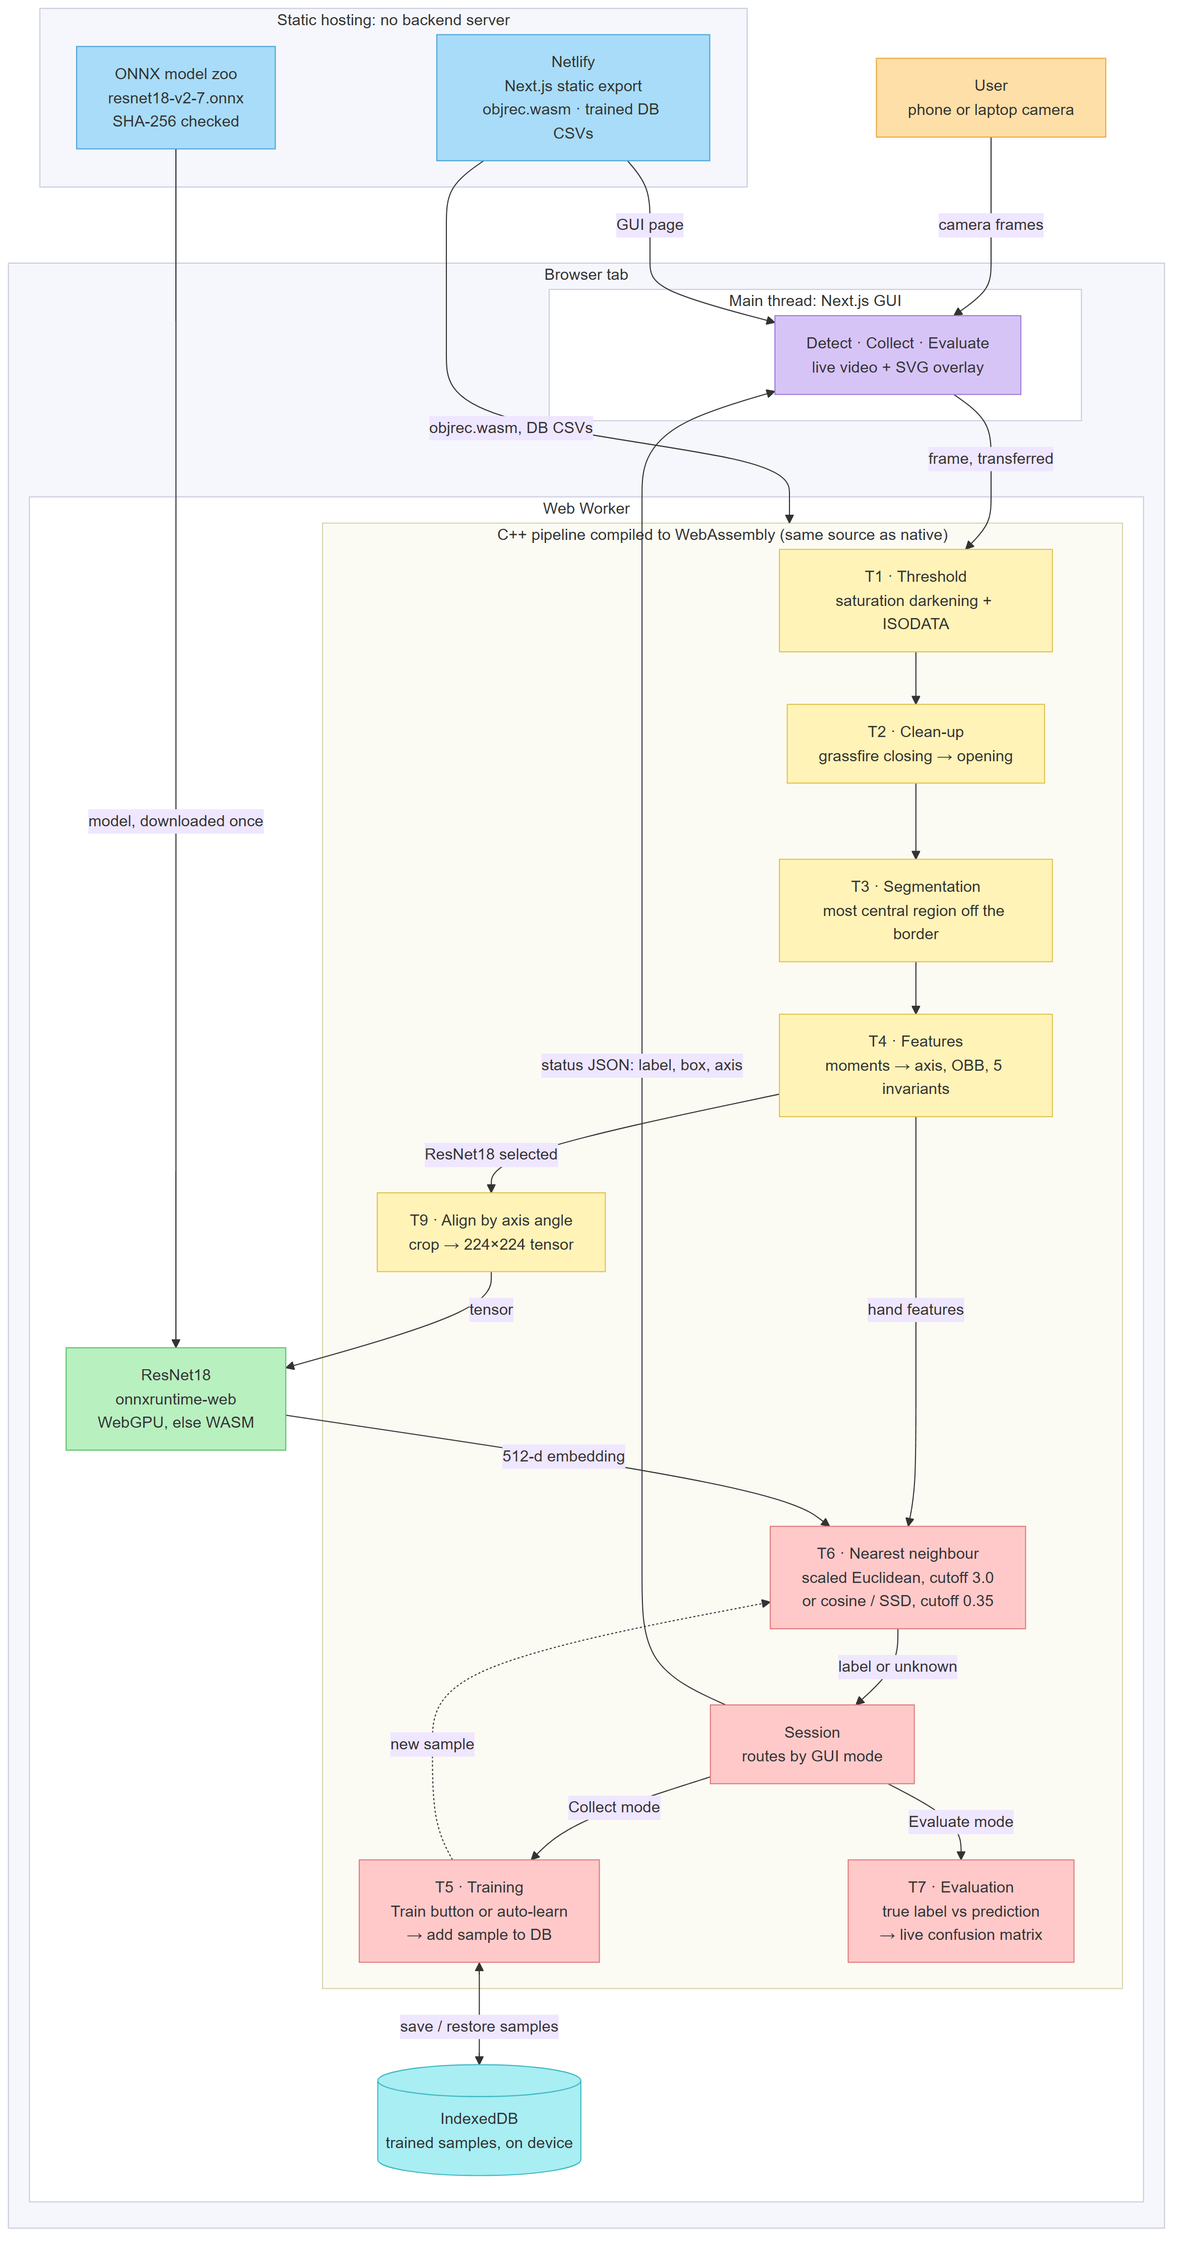
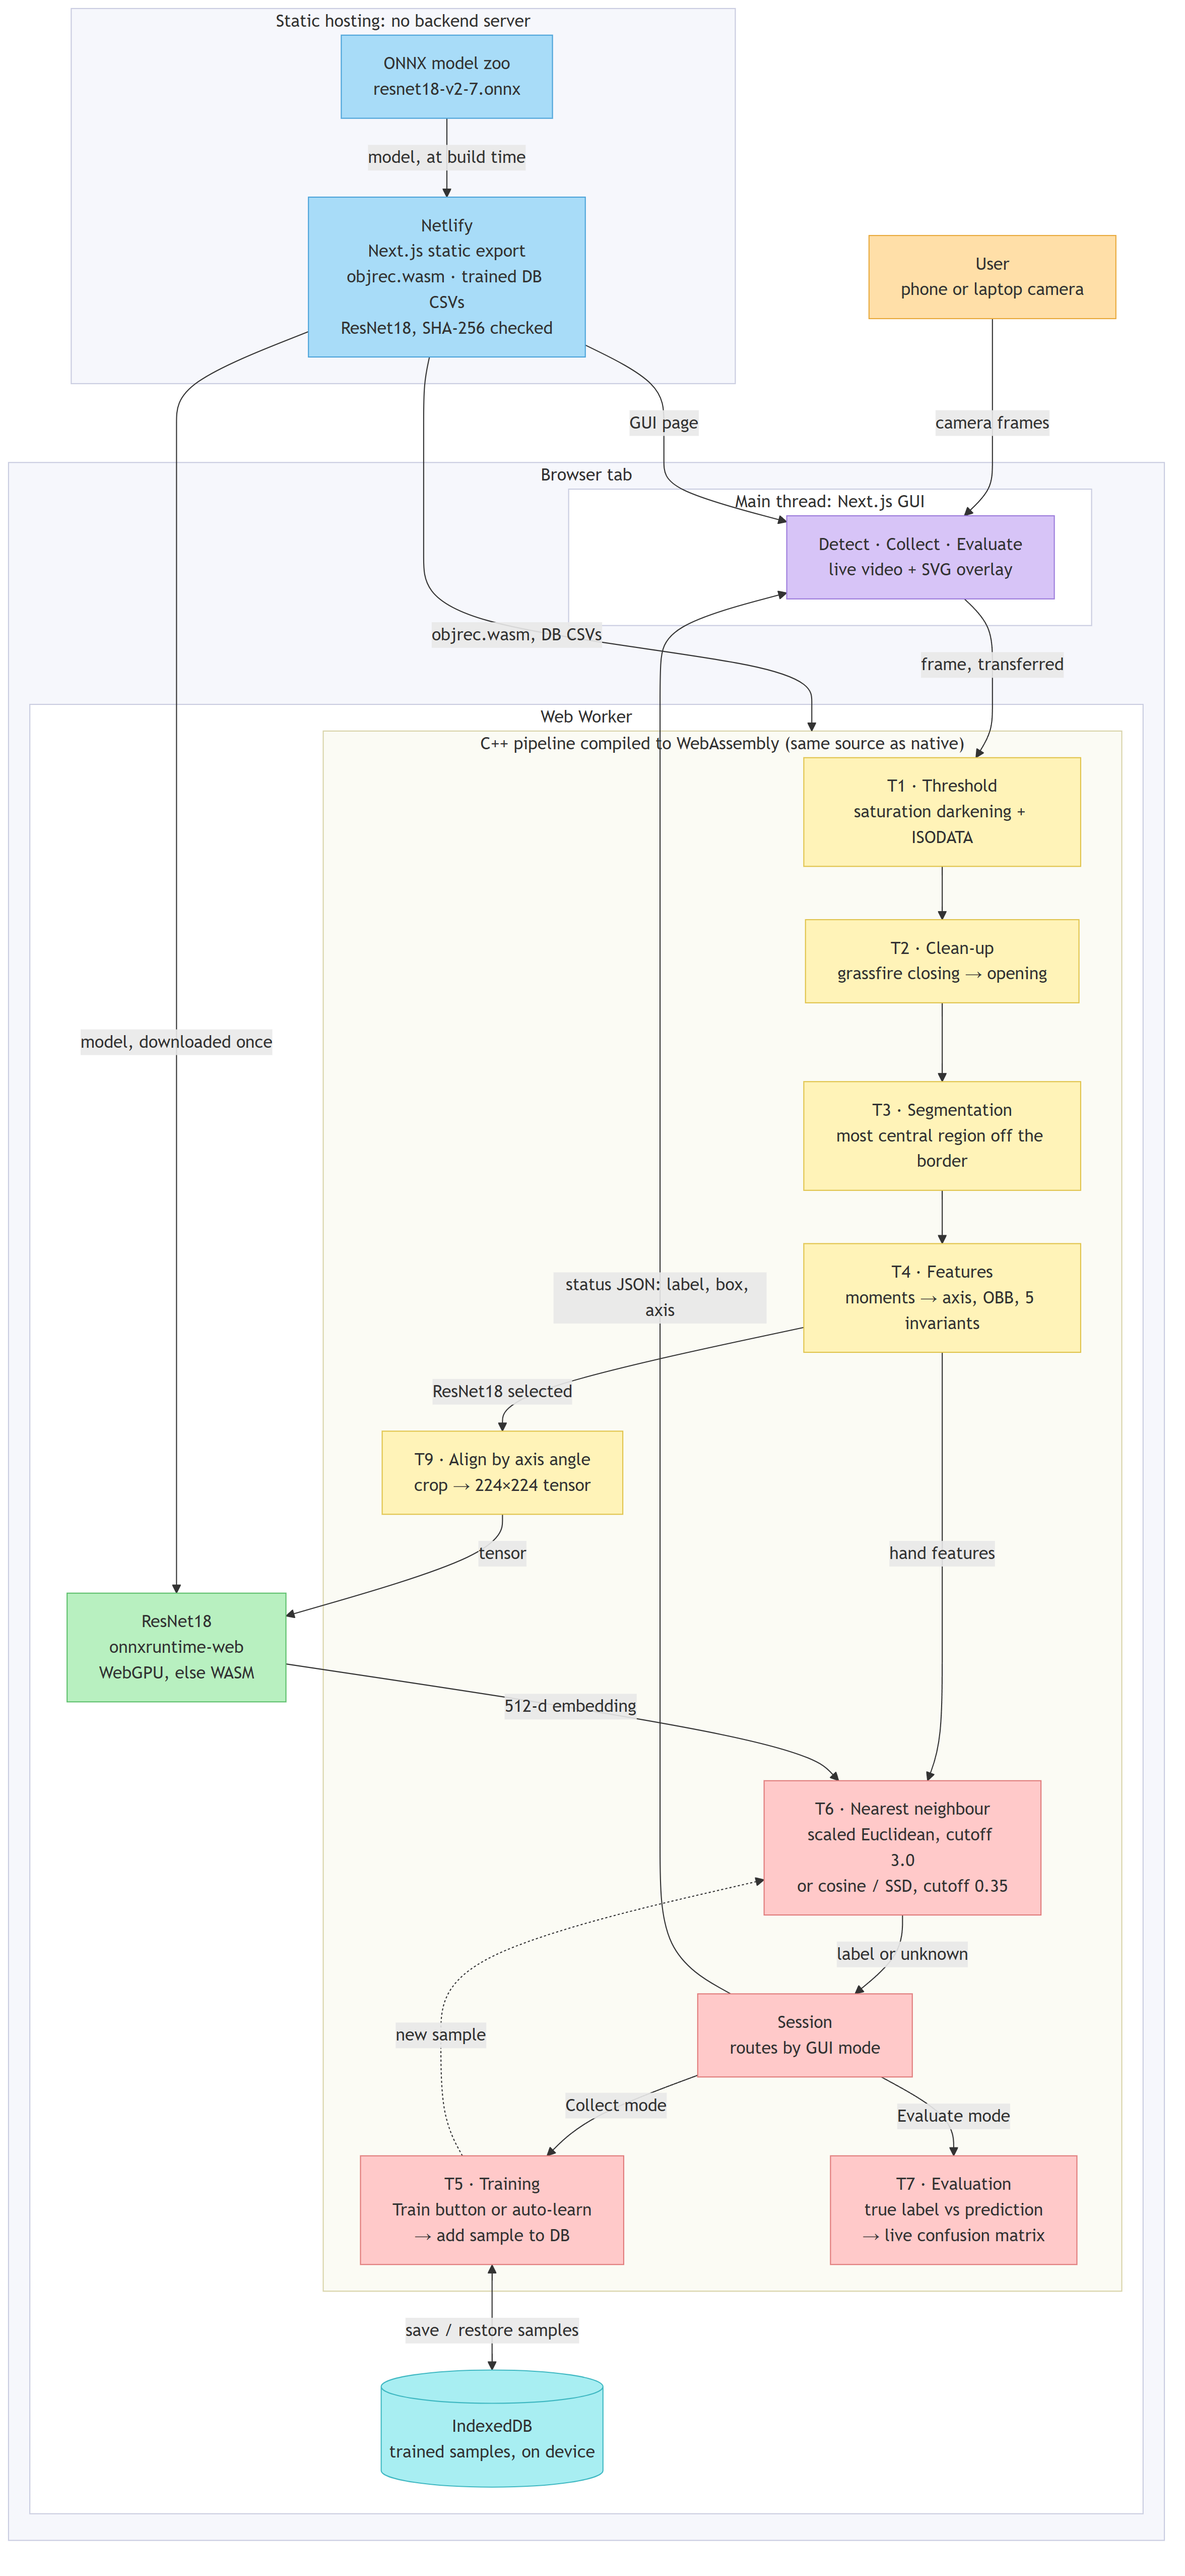
fix(web): :bug: serve ResNet18 from the site so blocked networks still get embeddings
Some networks block media.githubusercontent.com (TLS handshake fails), so the
browser's runtime fetch of the zoo model failed with "ResNet18 unavailable:
Failed to fetch". The build now places the pinned model in public/models/,
reusing data/models/ or downloading it server-side, and the worker loads it
from the site's own origin; the SHA-256 check still runs in the browser.
Weights stay out of git (D-18). Decision: D-30.

diff --git a/web/src/lib/onnx-patch.ts b/web/src/lib/onnx-patch.ts
@@ -1,13 +1,12 @@
 // D-27: onnxruntime can only return a model's declared outputs, but the T9 embedding is the
 // internal tensor after global average pooling (server.exe reads it by layer name through
-// OpenCV dnn). Rather than re-hosting a modified 47 MB model, the browser downloads the
-// original from the ONNX zoo, checks its SHA-256 (D-18, D-19), and declares that tensor as an
+// OpenCV dnn). Rather than shipping a modified 47 MB model, the browser downloads the
+// original zoo file, checks its SHA-256 (D-18, D-19), and declares that tensor as an
 // extra graph output by splicing one protobuf field into the bytes. Weights are untouched.
 
-// The zoo's LFS host directly: the github.com/.../raw/ URL in data/models/README.md redirects
-// here, and that redirect carries no CORS header, so browsers refuse to follow it.
-export const MODEL_URL =
-  "https://media.githubusercontent.com/media/onnx/models/main/validated/vision/classification/resnet/model/resnet18-v2-7.onnx";
+// D-30: served by the site itself (scripts/wasm.mjs puts it in public/models/ at build time).
+// Fetching the zoo's LFS host from the browser failed on networks that block that host.
+export const MODEL_URL = "/models/resnet18-v2-7.onnx";
[1 lines of base64/hex data omitted]
 export const EMBEDDING_OUTPUT = "resnetv22_flatten0_reshape0";
 

diff --git a/web/src/components/settings-card.tsx b/web/src/components/settings-card.tsx
@@ -101,7 +101,7 @@ export function SettingsCard({ status }: { status: Status | null }) {
         />
         {USE_WASM && model.state === "loading" && (
           <p className="setting-note">
-            Downloading ResNet18 from the ONNX model zoo (47 MB, once; your browser caches it):{" "}
+            Downloading ResNet18 (47 MB, once; your browser caches it):{" "}
             {Math.round(model.progress * 100)}%. Hand features work meanwhile.
           </p>
         )}

diff --git a/docs/mentorship/decisions.md b/docs/mentorship/decisions.md
@@ -392,3 +392,13 @@ Phone layout fine; back camera; trained "phone" with 3 samples in the browser; l
 
 New objects whose silhouette resembles a trained one (round tin vs batteries, snack bag vs notebook at distance 0.301 / cutoff 0.350) flicker between a known label and unknown. Cause: one "known" frame resets the 3 s hold ([auto_learn.cpp](../../src/app/auto_learn.cpp) `update`), so a borderline object never stays unknown for 3 s straight. Workaround used in the demo: cutoff lowered to 0.200 (costs false unknowns on trained objects under lighting changes).
 **Further improvement (yours, not built):** decide on the fraction of frames in the hold window that read unknown (e.g. ≥ 80%) instead of requiring every frame; one noisy frame then no longer erases the hold. Related: hysteresis (separate enter/leave cutoffs) or smoothing the distance over frames.
+
+## D-30 — Serve ResNet18 from the site (decided 2026-11-06)
+
+**Problem (yours):** the deployed site showed "ResNet18 unavailable: Failed to fetch". The browser fetched the model from the zoo's LFS host (`media.githubusercontent.com`, D-27), and some networks block that host: from your machine its TLS handshake fails while `github.com` and `raw.githubusercontent.com` work. The code was fine (the local copy matches the pinned SHA-256).
+**Options:** (A) the site serves the model itself; (B) keep the zoo and fall back to a mirror (e.g. Hugging Face) on failure; (C) keep it as is and document the requirement.
+**Trade-offs:** A adds 47 MB to every deploy but works wherever the site loads and drops the third-party host and CORS; B keeps deploys small but depends on two outside hosts, which can both be blocked, and needs more code; C costs nothing, but visitors on filtering networks (offices, schools) silently lose ResNet18.
+**Your call: A.** It's a static site that rarely gets redeployed, so the deploy size hardly matters.
+**Built:** `web/scripts/wasm.mjs` copies the model into `public/models/` at build time. It reuses `data/models/` when that copy matches the pin; otherwise it downloads the file and checks it (on the server, so CORS doesn't apply). Weights stay out of git (D-18). The worker fetches `/models/resnet18-v2-7.onnx` from the site and still checks the SHA-256 (D-19). Netlify caches `/models/*` as immutable, since the content is pinned.
+**Verified:** a local static build in headless Chrome fetched the model from the site, and the classifier card reported "Running on your GPU via WebGPU".
+**Open:** the build-time download path is untested here, because this network blocks the zoo host. The first Netlify build exercises it: check its log and the branch deploy.

diff --git a/ARCHITECTURE.md b/ARCHITECTURE.md
@@ -112,7 +112,7 @@ sequenceDiagram
 ```
 
 - **Live view (D-29).** The annotated view shows the camera itself at full frame rate and draws the box, axis and label as SVG from the latest status. Before this, the picture refreshed only as fast as recognition ran.
-- **Model (D-27).** ResNet18 comes straight from the ONNX model zoo's file host and is checked against the pinned SHA-256. onnxruntime returns only declared outputs, so the worker splices a 46-byte protobuf field into the model to declare the embedding layer as an output; the weights are untouched.
+- **Model (D-27, D-30).** The site serves ResNet18 itself: the build copies the ONNX model zoo's file into `public/models/` (downloading it if `data/models/` has no matching copy), and the worker checks it against the pinned SHA-256. Fetching the zoo's file host from the browser failed on networks that block it. onnxruntime returns only declared outputs, so the worker splices a 46-byte protobuf field into the model to declare the embedding layer as an output; the weights are untouched.
 - **Speed.** Hand features ~10 fps. ResNet18 ~15 fps on WebGPU, ~3.6 fps on single-threaded WebAssembly.
 - **Correctness.** The WebAssembly build gives the same thresholds, features and predictions as `server.exe` (relative difference 0), and the browser embedding matches OpenCV dnn's (cosine distance 8e-8).
 
@@ -159,9 +159,9 @@ sequenceDiagram
 ```mermaid
 flowchart LR
     GH[GitHub main] --> N[Netlify build<br/>npm run build:wasm]
-    N --> O["web/out (static)<br/>HTML/JS · objrec.wasm · ORT runtime · DB CSVs · samples"]
+    N --> O["web/out (static)<br/>HTML/JS · objrec.wasm · ORT runtime · ResNet18 · DB CSVs · samples"]
+    Z[ONNX model zoo] -- "ResNet18, SHA-256 checked" --> N
     O --> B[Browser]
-    Z[ONNX model zoo] -- "ResNet18, fetched by the worker" --> B
 ```
 
 [netlify.toml](netlify.toml) sets JavaScript content types for the `.mjs` modules (module
